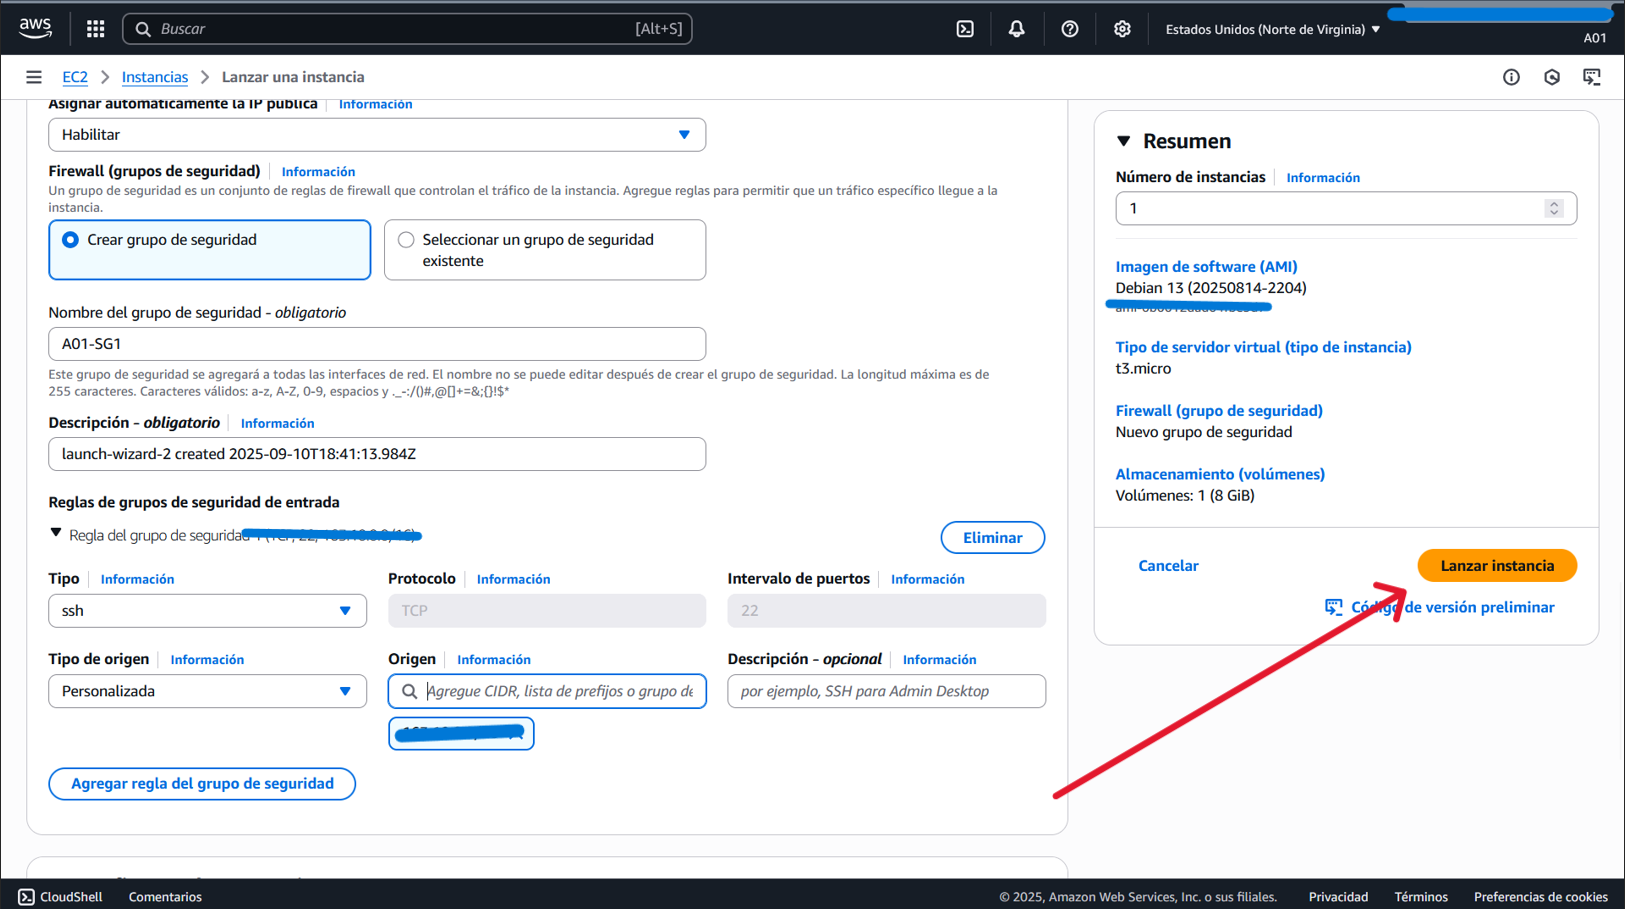
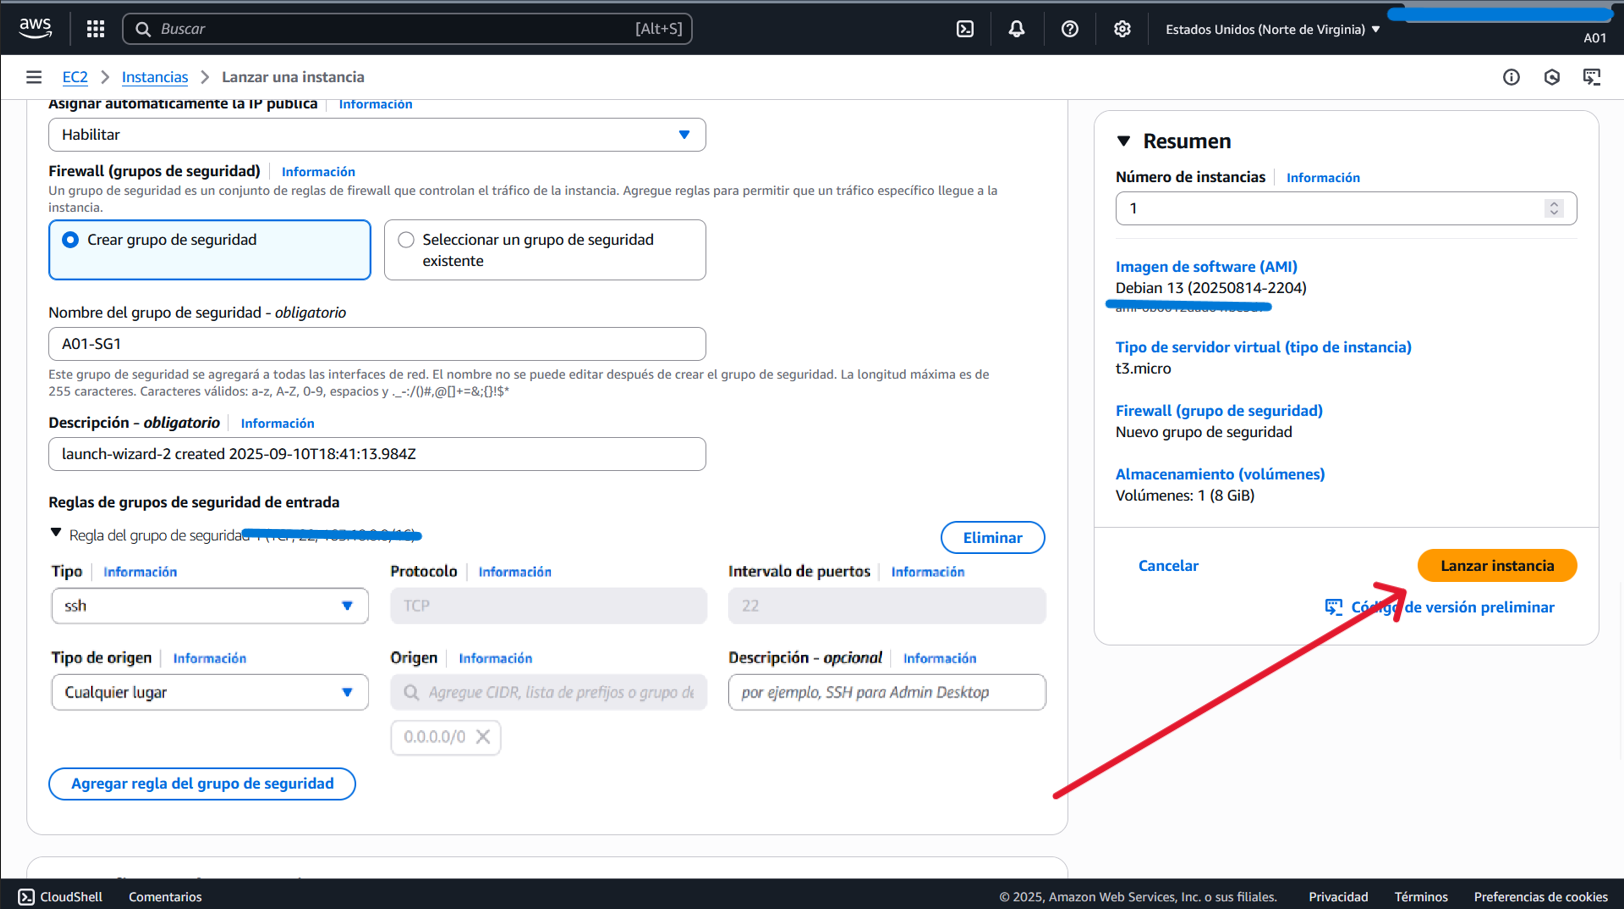
practicas

diff --git a/src/content/blog/cloud-aws-ec2/index.md b/src/content/blog/cloud-aws-ec2/index.md
@@ -69,14 +69,7 @@ Para controlar el acceso a la instancia desde la red, se creó un **grupo de seg
 
 1. Se seleccionó la opción **Crear grupo de seguridad**, lo que permite establecer reglas de tráfico personalizadas para esta instancia.
 2. Se asignó el nombre **A01-SG1** y se generó automáticamente una descripción por defecto.
-3. En las **reglas de entrada**, se agregó una primera configuración para permitir conexiones SSH:
-
-   * **Tipo:** SSH
-   * **Protocolo:** TCP
-   * **Puerto:** 22
-   * **Origen:** rango de direcciones personalizadas (CIDR `163.10.0.0/16`), lo cual restringe el acceso a un segmento específico de red y brinda mayor seguridad frente a accesos no autorizados.
-
-Este paso es esencial para poder conectarse de forma remota a la instancia utilizando el protocolo SSH, manteniendo al mismo tiempo un control sobre qué redes tienen permitido el acceso.
+3. En las **reglas de entrada**, se dejo por defecto, lo que permite entradas ssh desde cualquier lugar del mundo. Esto sera modificado en una paso siguiente de esta actividad. 
 
 
 ![alt text](image-3.png)
